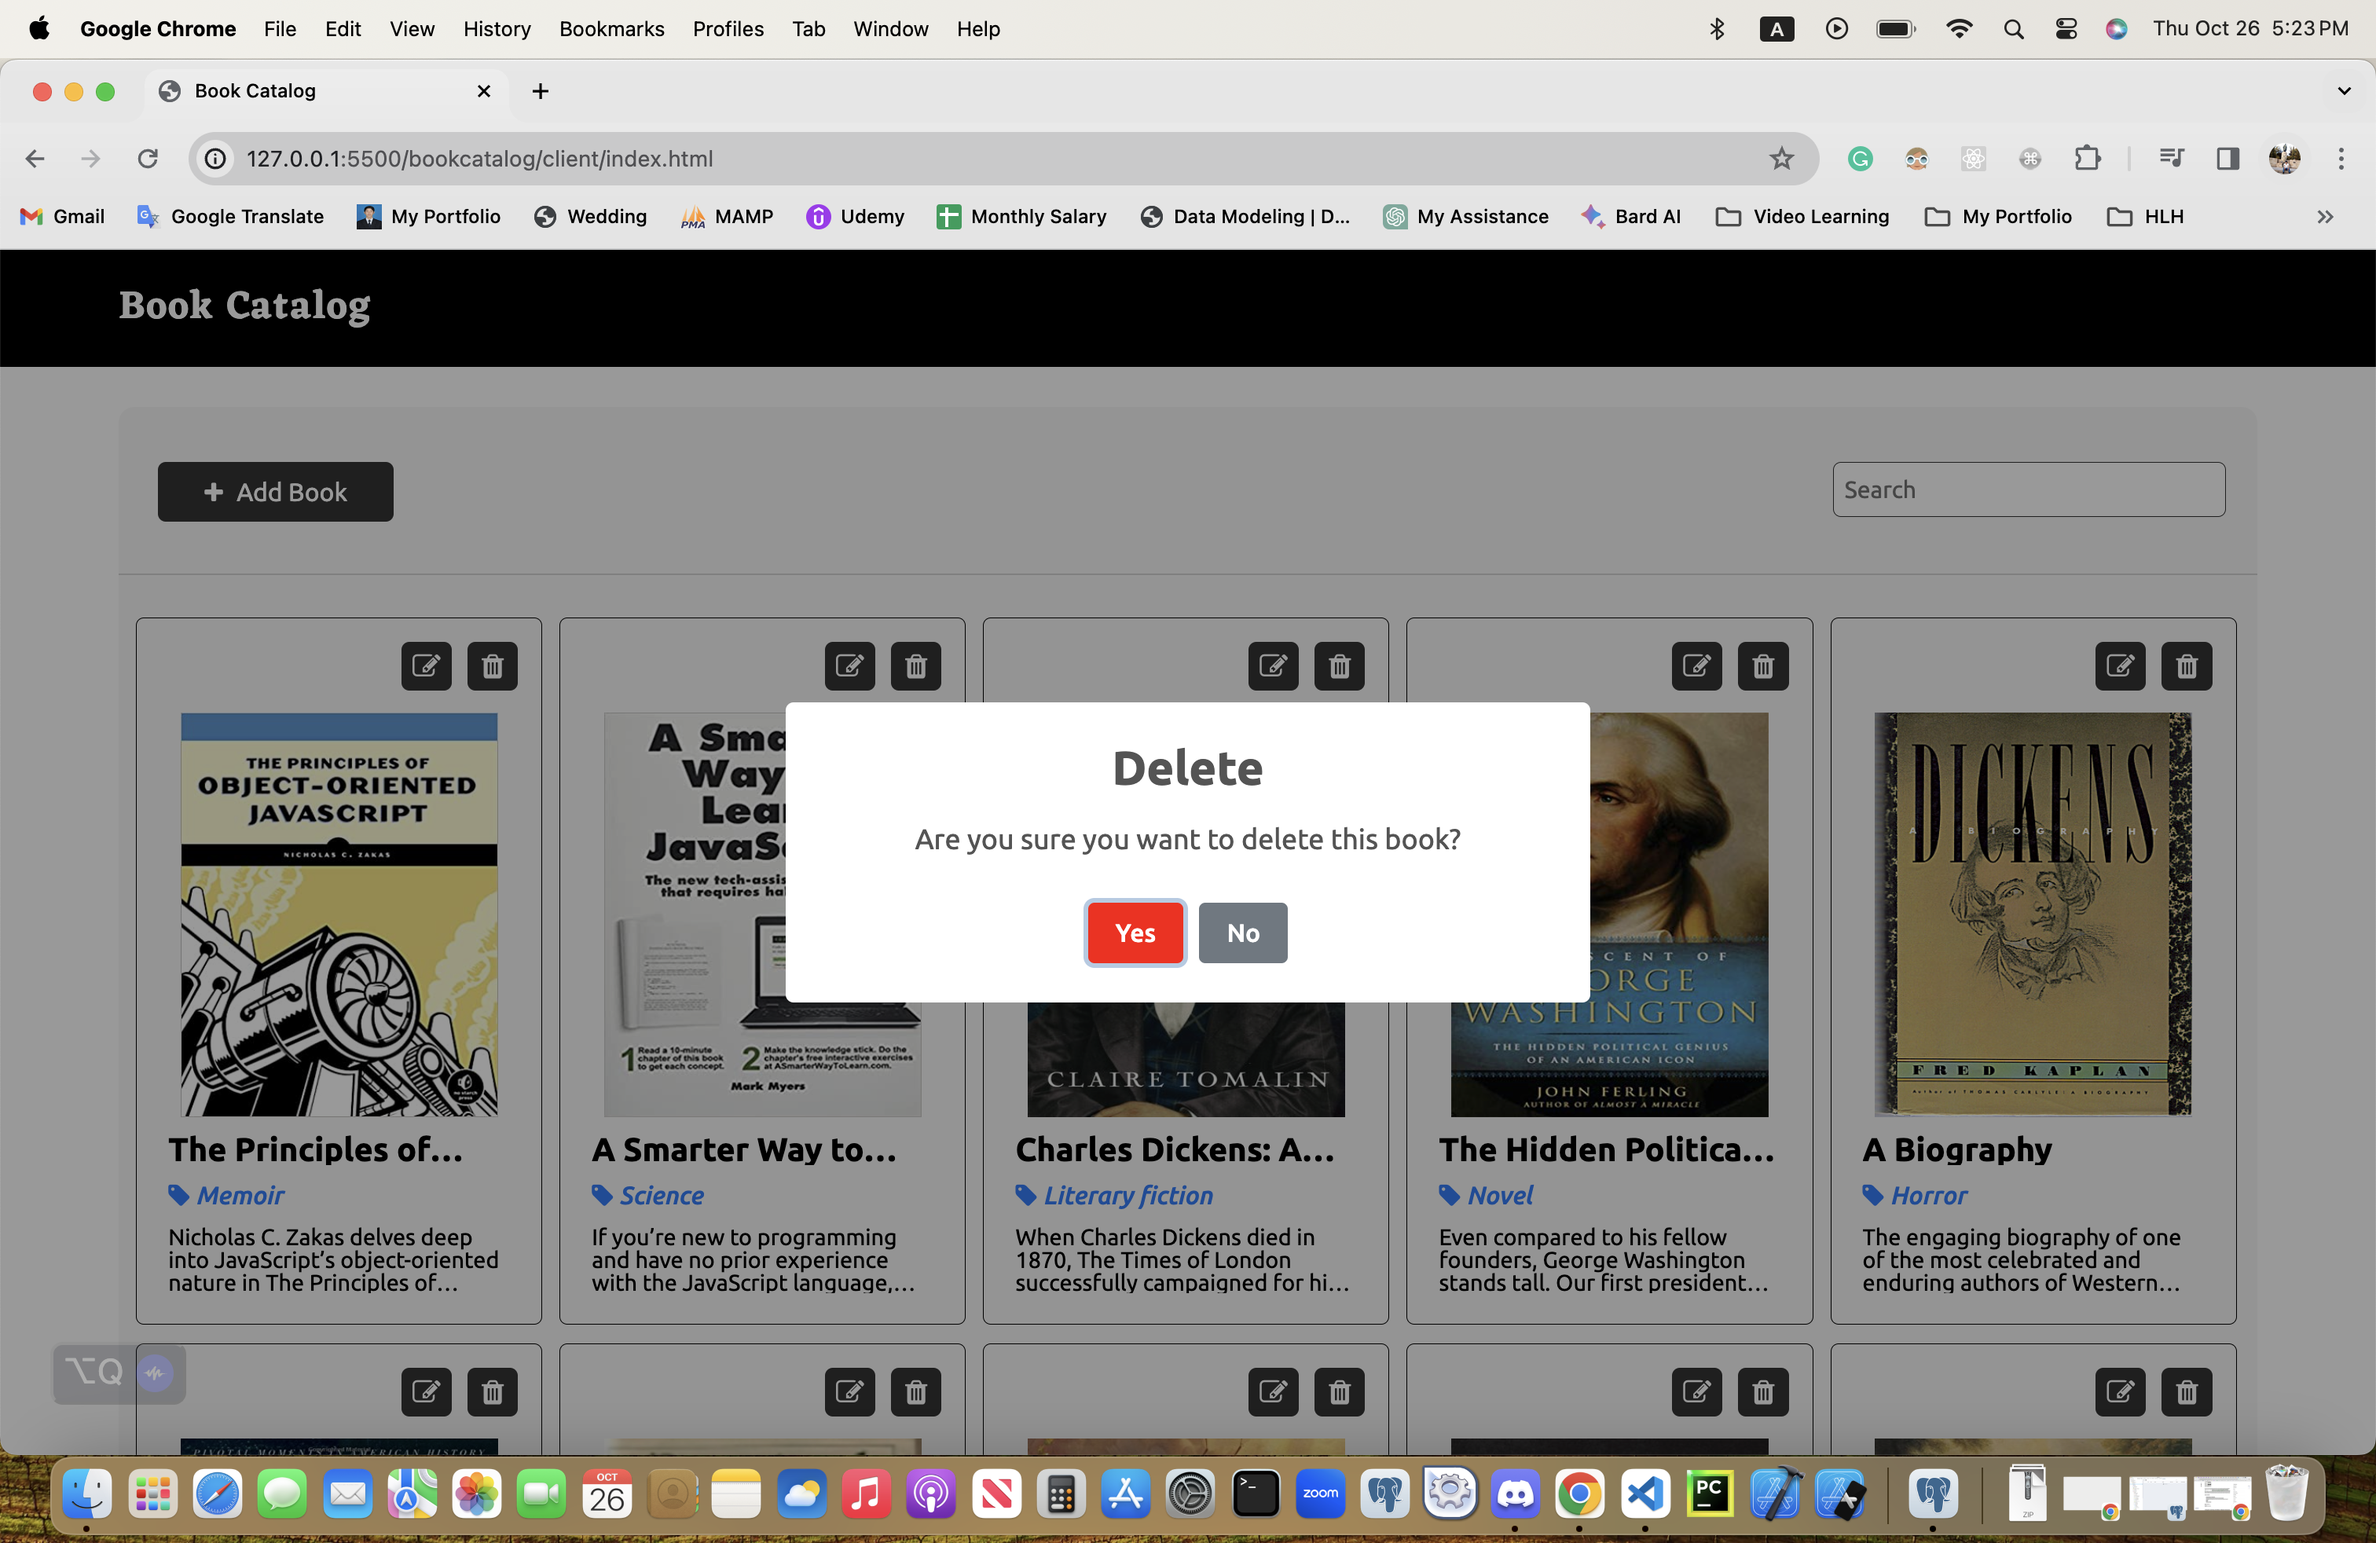
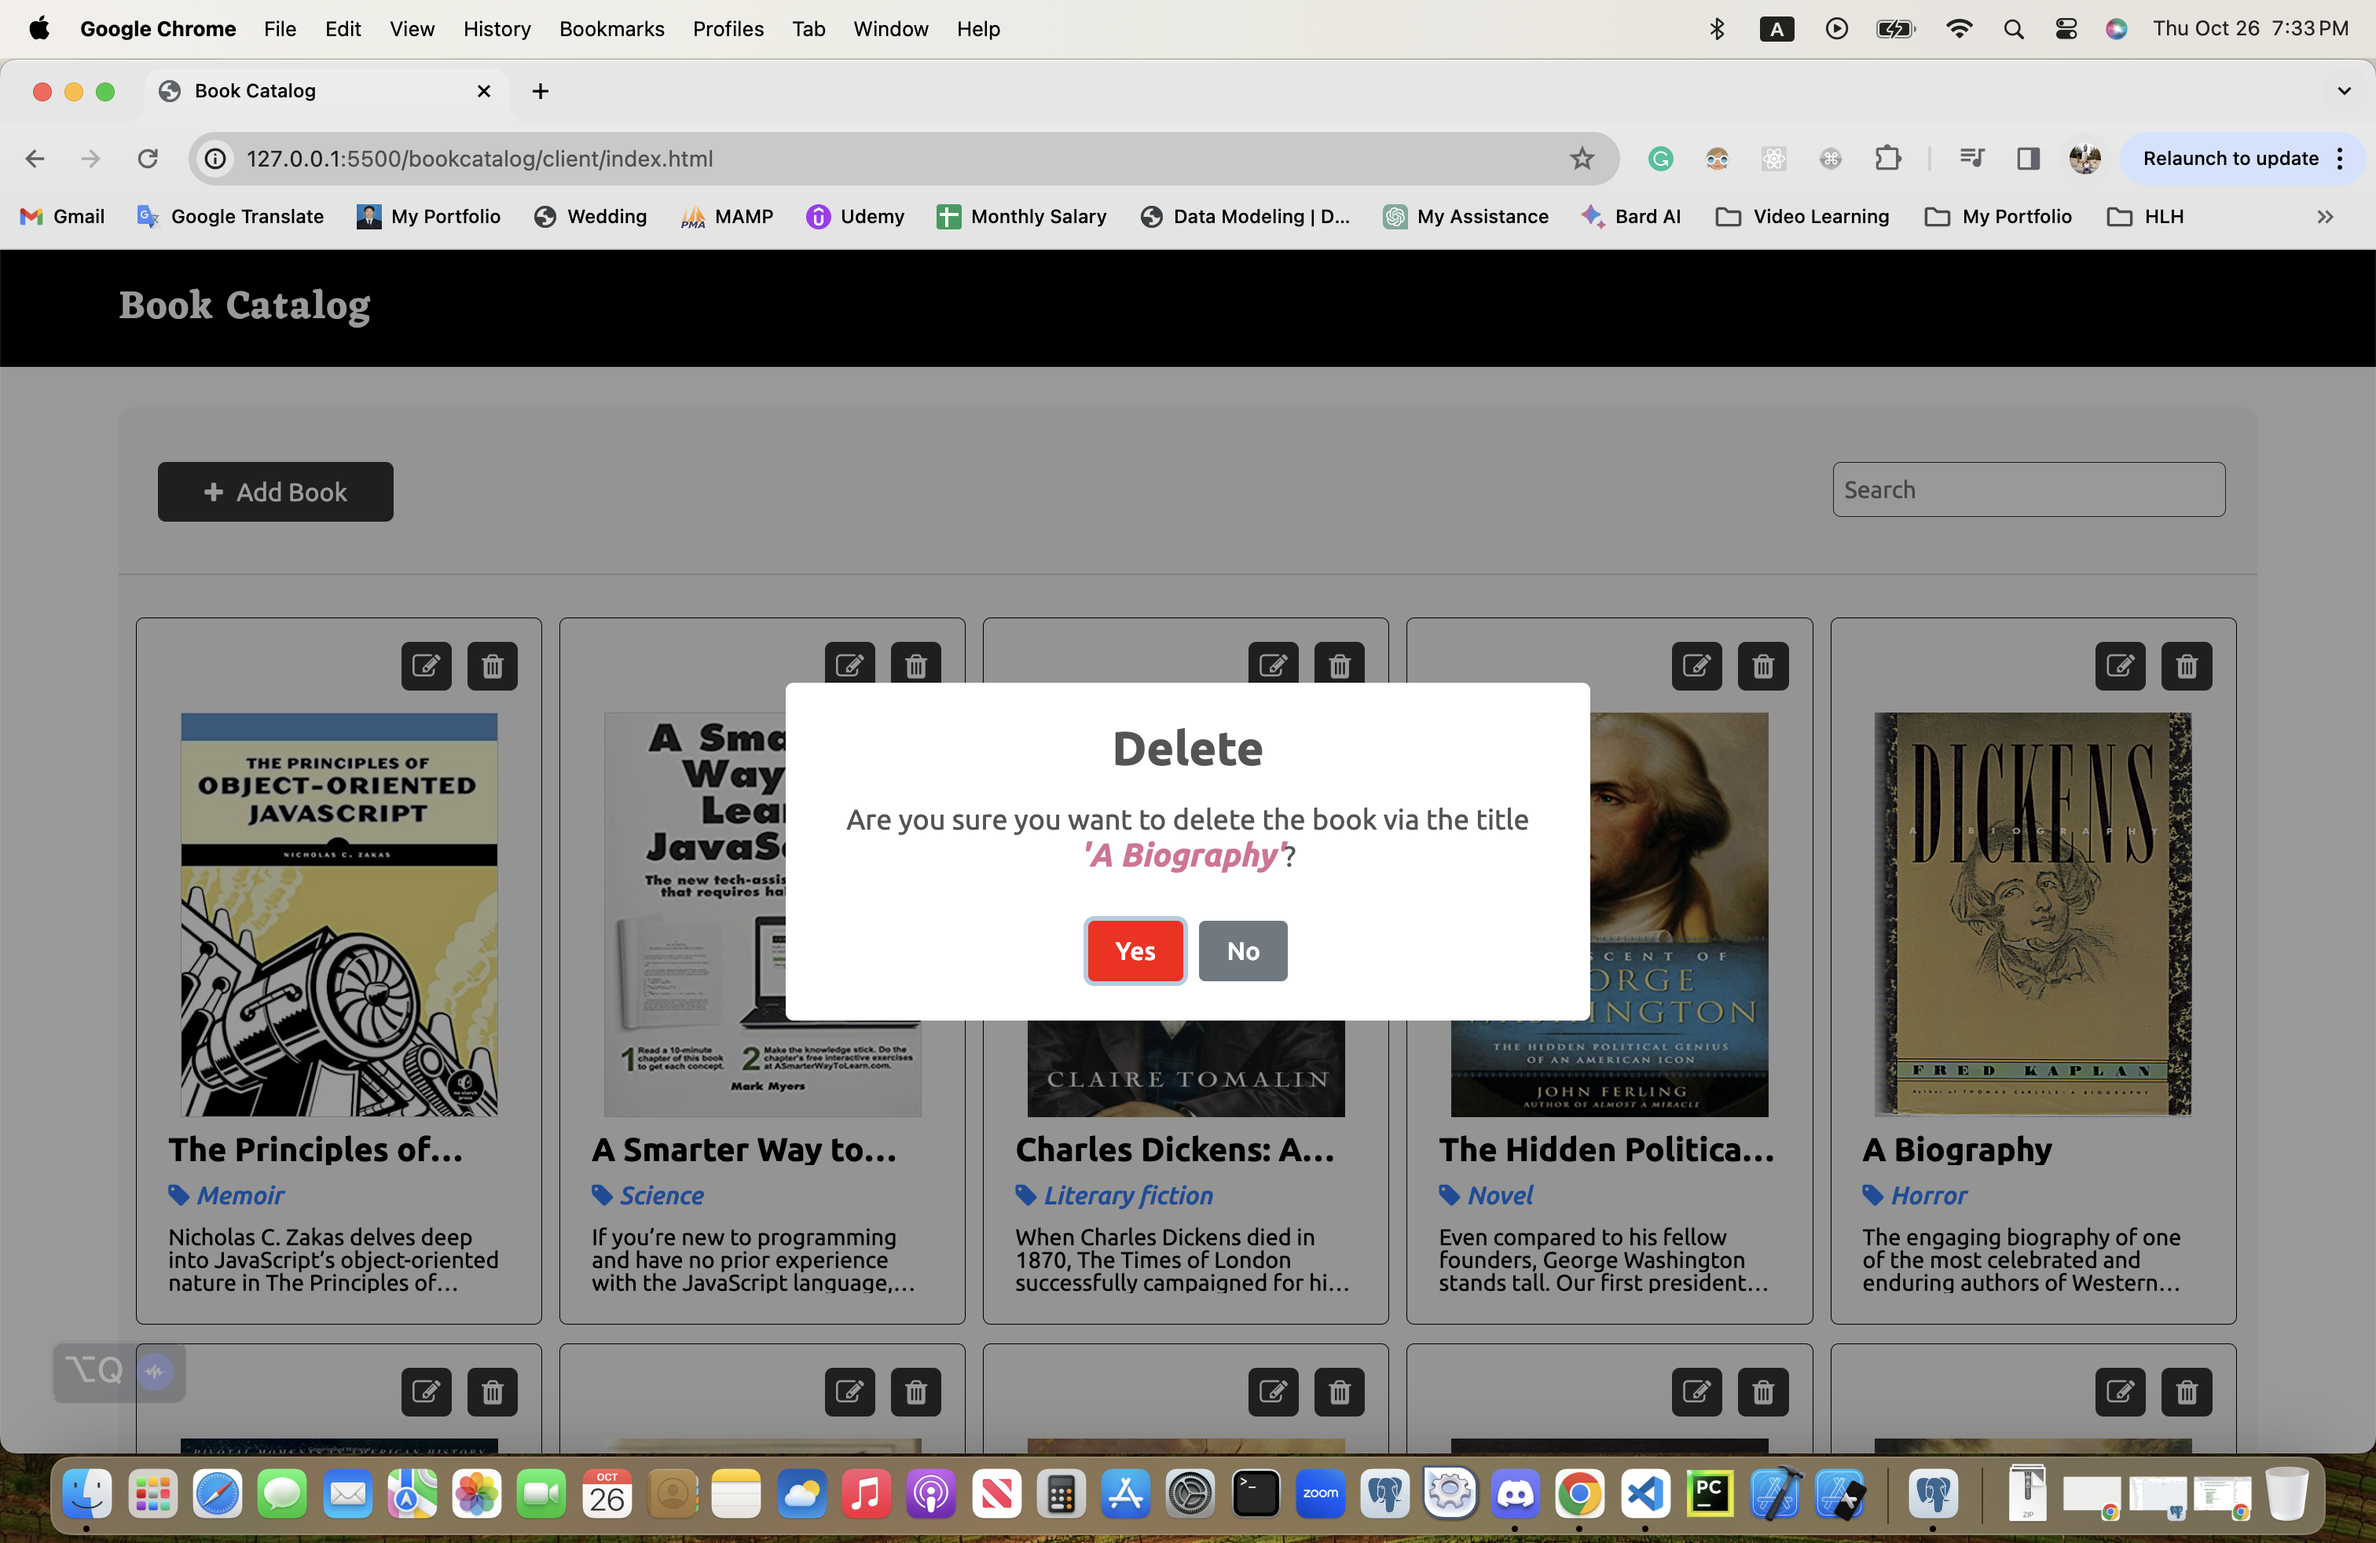
Customize swal alert color.

Changed region(s): [[0.0, 0.9318, 1.0, 1.0], [0.3108, 0.4348, 0.6839, 0.6833], [0.6528, 0.0621, 0.9947, 0.1242]]

diff --git a/client/js/main.js b/client/js/main.js
@@ -19,7 +19,7 @@ function bookCard(book) {
     div.classList.add('item')
     div.innerHTML = `
         <div class="action-list">
-            <div class="action"><button class="btn-delete" onclick="deleteBook(${book.id})"><i class="fa fa-trash"></i></button></div>
+            <div class="action"><button class="btn-delete" onclick="deleteBook(${book.id}, '${book.title}')"><i class="fa fa-trash"></i></button></div>
             <div class="action"><button class="btn-edit" onclick="editBook(${book.id})"><i class="fa fa-edit"></i></button></div>
         </div>
         <a class="book-link-image" href="../client/html/book-detail.html?id=${book.id}">
@@ -71,10 +71,11 @@ function editBook(bookId) {
 }
 
 // Looking for book by id to delete from the database
-function deleteBook(bookId) {
+function deleteBook(bookId, title) {
+    // console.log(bookId, title)
     Swal.fire({
         title: "Delete",
-        text: "Are you sure you want to delete this book?",
+        html: `Are you sure you want to delete the book via the title <strong>'${title}'</strong>?`,
         type: "warning",
         showCancelButton: true,
         confirmButtonColor: 'red',

diff --git a/client/css/styles.css b/client/css/styles.css
@@ -367,6 +367,12 @@ span {
     margin-right: 20px;
 }
 
+strong {
+    color: palevioletred;
+    font-style: italic;
+    font-size: var(--title-font);
+}
+
 #loading {
     width: 2rem;
     height: 2rem;
